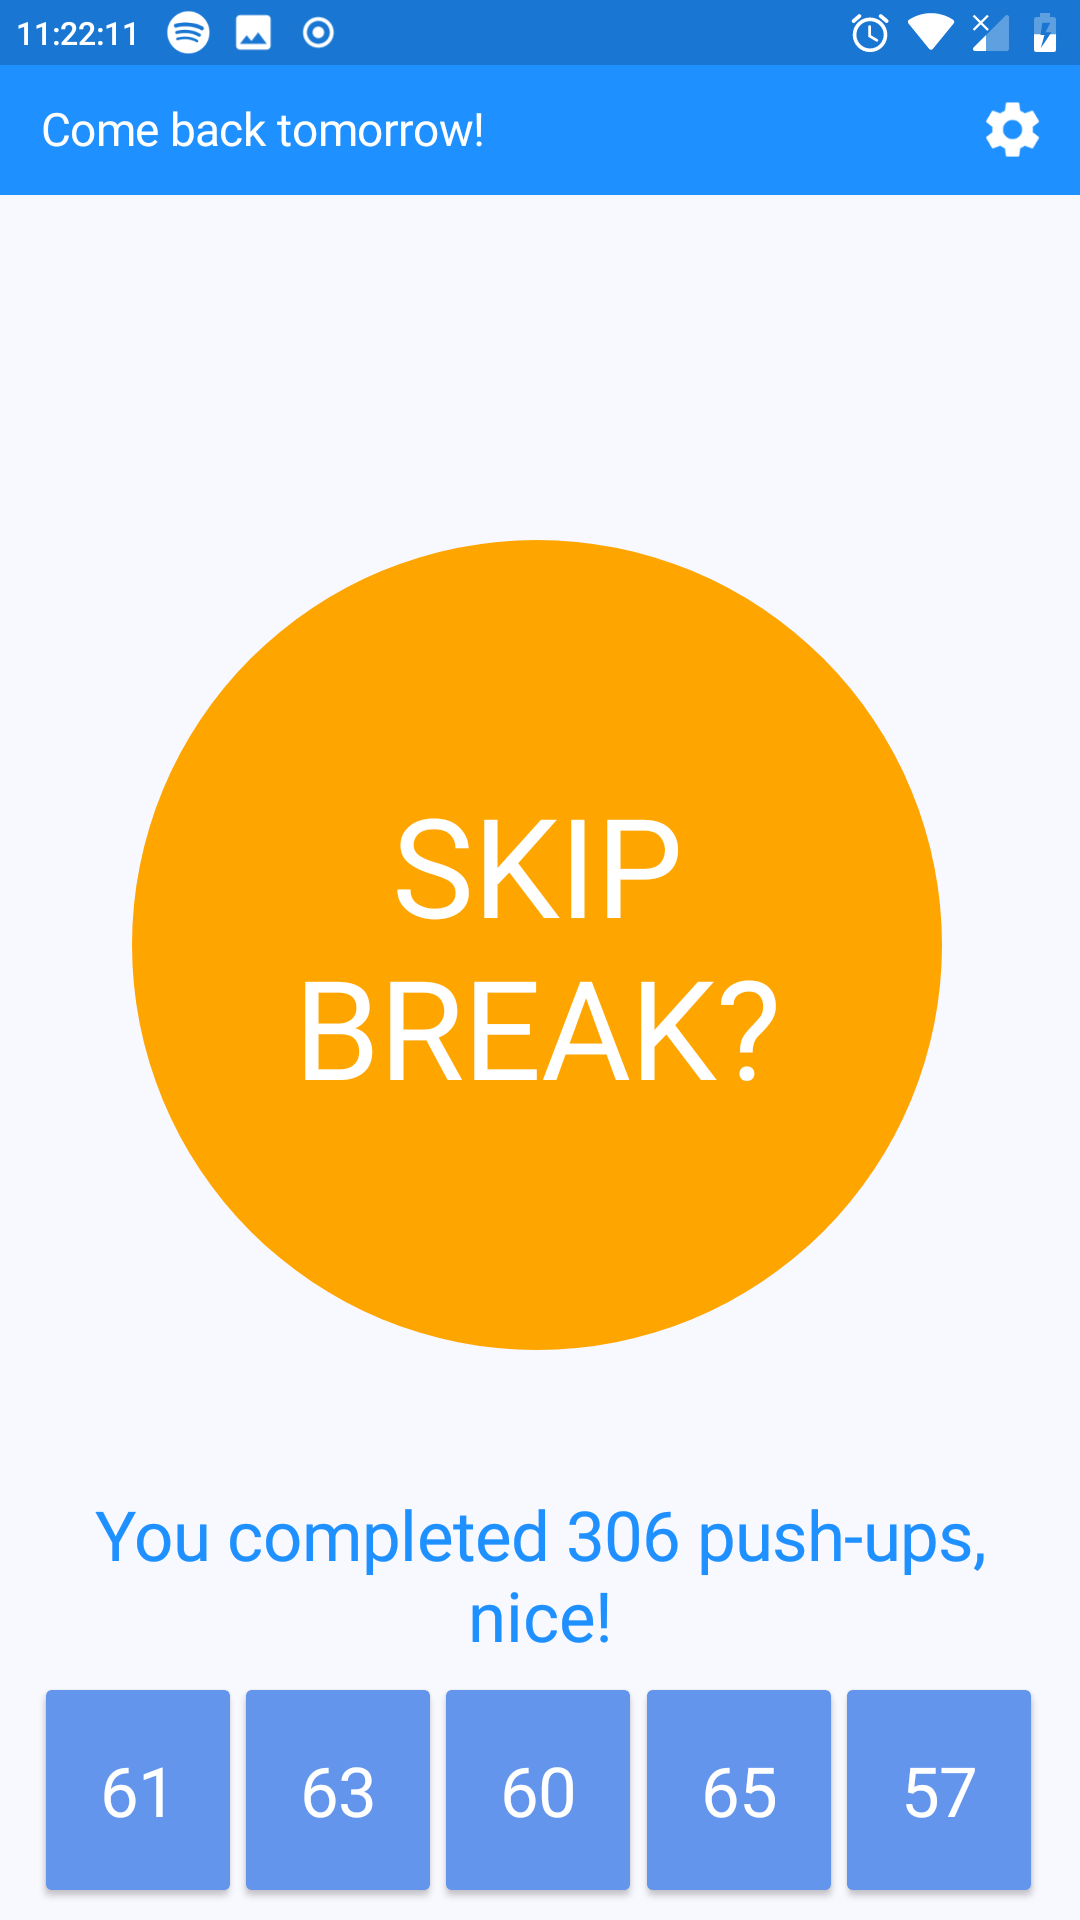
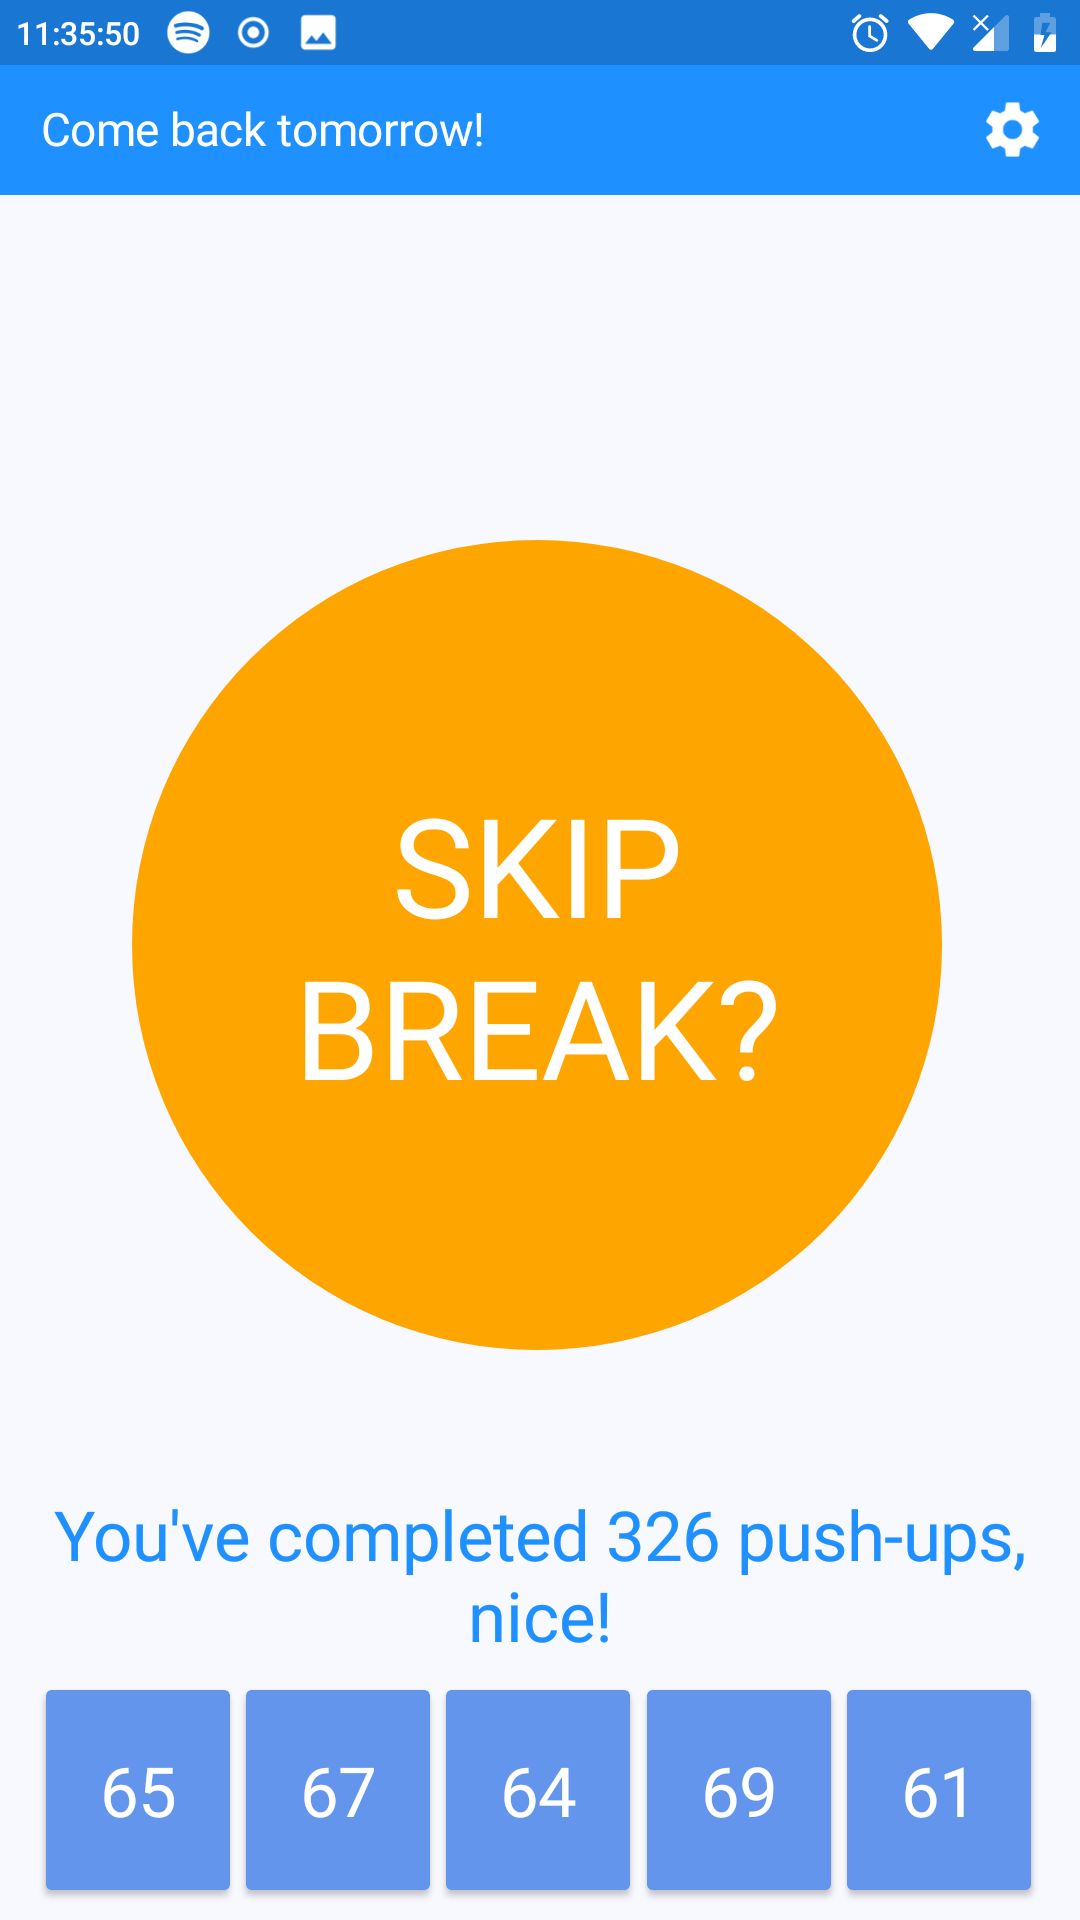
Fixed grammar error and replaced the screenshot.

diff --git a/PushUpApp/PushUpApp/App.xaml b/PushUpApp/PushUpApp/App.xaml
@@ -22,7 +22,7 @@
             <!--  Default label  -->
         </Style>
         <Style TargetType="{x:Type Label}">
-            <Setter Property="FontSize" Value="30" />
+            <Setter Property="FontSize" Value="28" />
             <Setter Property="HorizontalTextAlignment" Value="Center" />
             <Setter Property="VerticalTextAlignment" Value="Center" />
             <Setter Property="VerticalOptions" Value="Center" />

diff --git a/PushUpApp/PushUpApp/ViewModels/WorkoutViewModel.cs b/PushUpApp/PushUpApp/ViewModels/WorkoutViewModel.cs
@@ -209,7 +209,7 @@ namespace PushUpApp
                 NotificationId = 100,
                 Title = "Time for a workout!",
                 Description = string.Format("{0}, it's time for your daily push-up workout!", Settings.UserName),
-                NotifyTime = DateTime.Now.AddSeconds(20),
+                NotifyTime = Settings.NextWorkoutDate,
             };
             // Sends notification
             notificationService.Show(notification);
@@ -219,7 +219,7 @@ namespace PushUpApp
             // Changes the text above the button 
             UpperLabelText = string.Format("Come back tomorrow! ");
             // Changes the information text
-            InformationText = string.Format("You completed {0} push-ups, nice!", Workout.SetsSum);
+            InformationText = string.Format("You've completed {0} push-ups, nice!", Workout.SetsSum);
         }
         /// <summary>
         /// Changes the text labels for a game start.
@@ -229,7 +229,7 @@ namespace PushUpApp
             ButtonText = "Start";
             UpperLabelText = string.Format("Hello, {0}", Settings.UserName);
             IsInformationTextVisible = true;
-            InformationText = "Click the button to begin workout!";
+            InformationText = "Click the button to begin the workout!";
         }
         #endregion
     }
